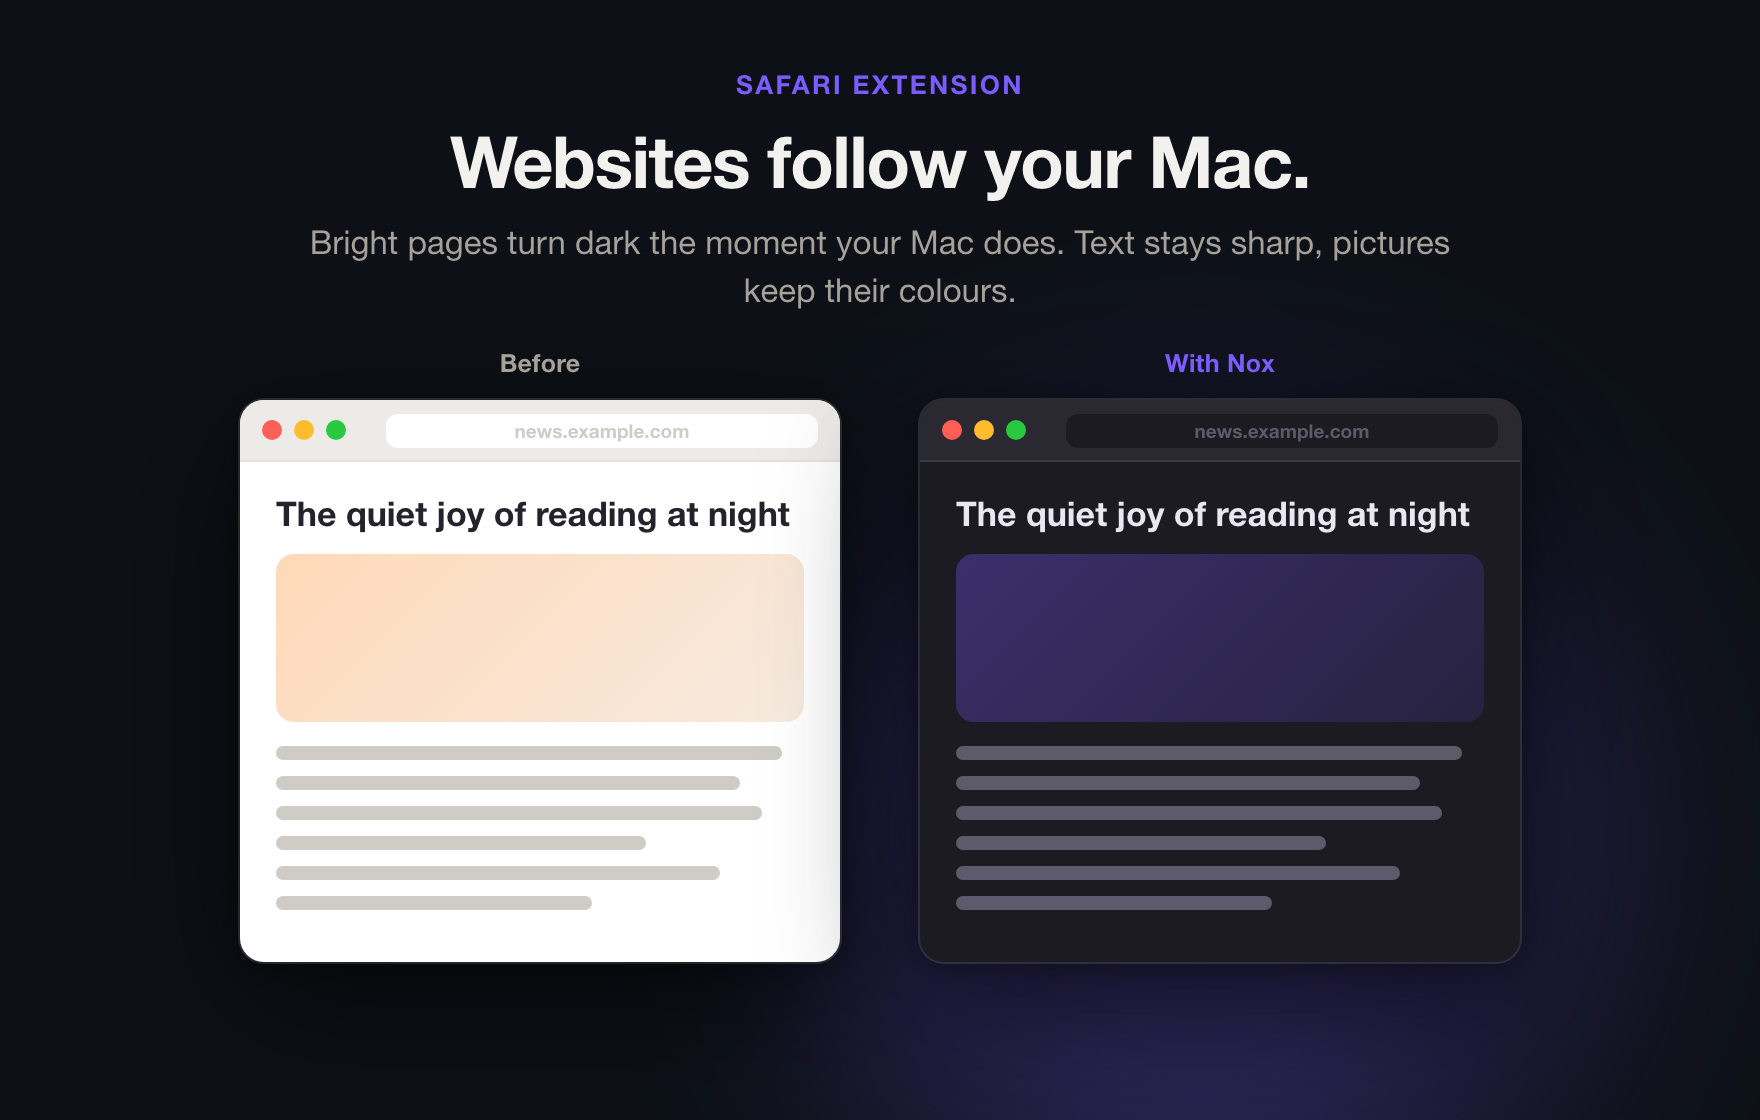
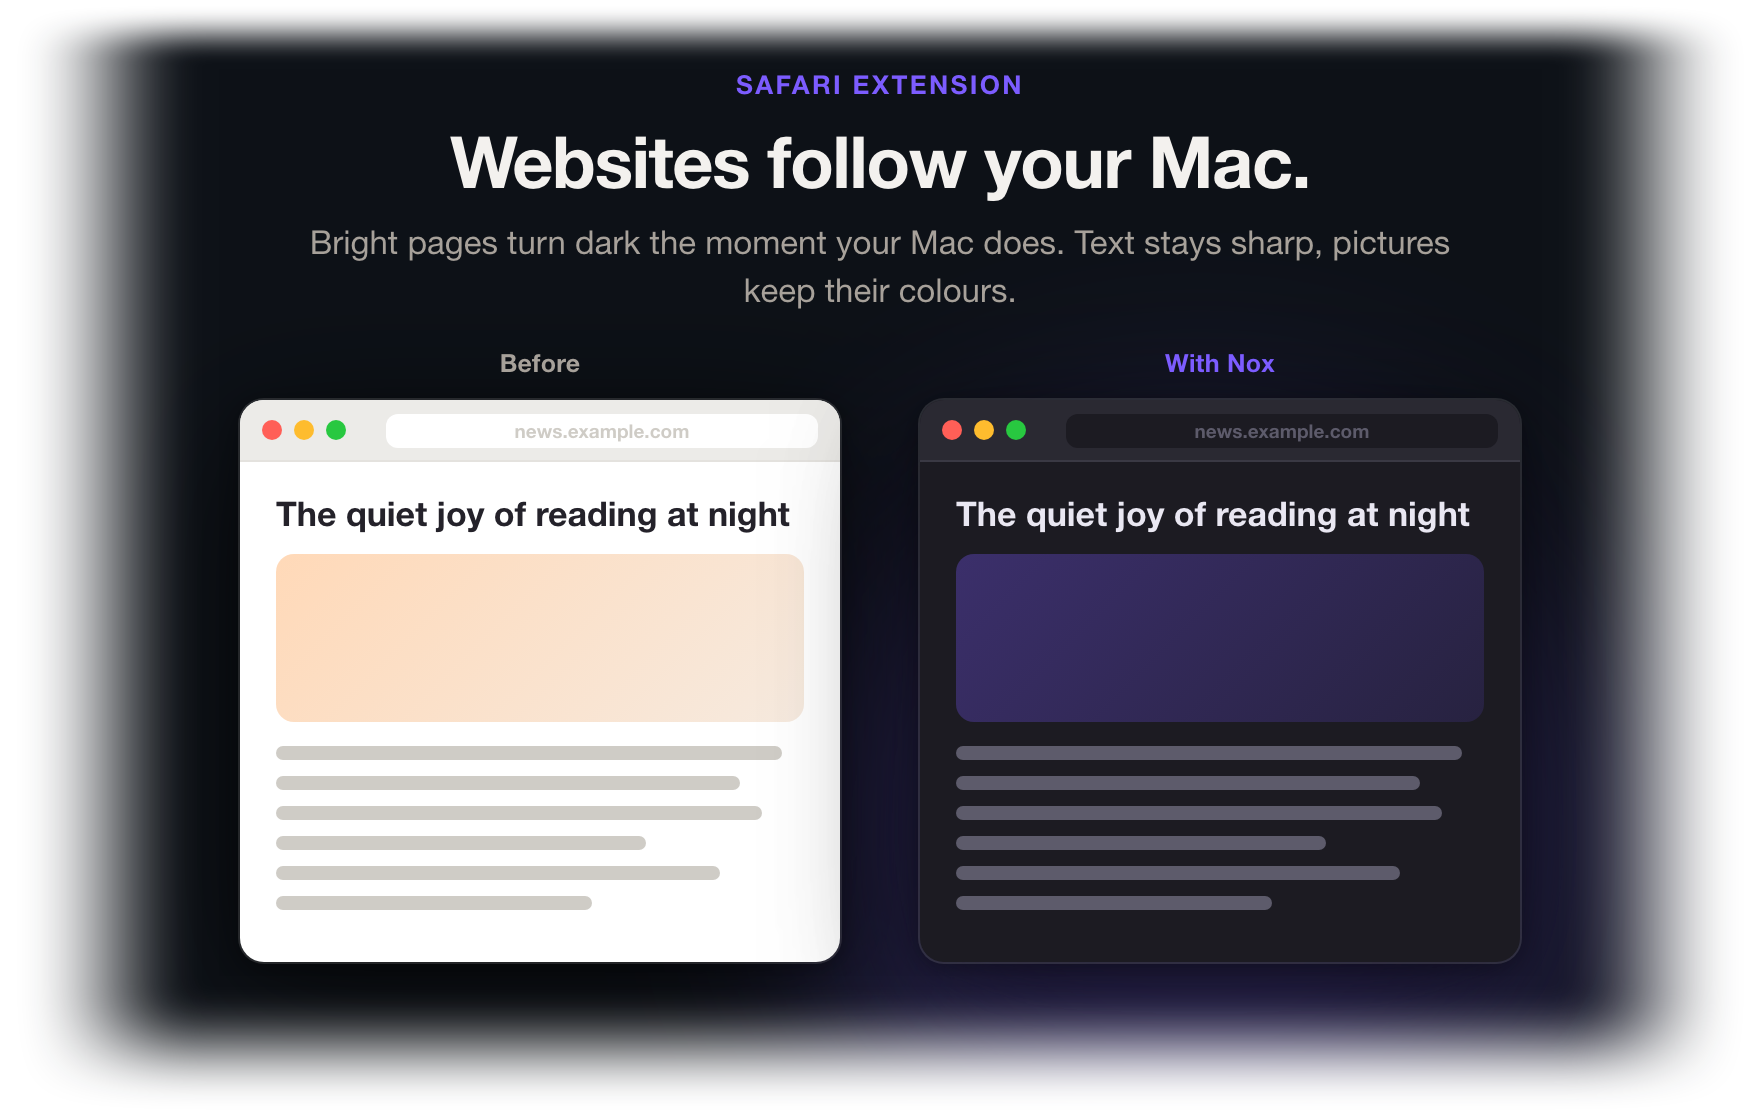
fix: feather showcase picture edges so they fade into the page

diff --git a/docs/index.html b/docs/index.html
@@ -11,7 +11,7 @@
 <meta property="og:title" content="Nox">
 <meta property="og:description" content="One click flips your Mac between light and dark. Free for Mac and Windows.">
 <meta property="og:type" content="website">
-<meta property="og:image" content="showcase/nox-1-light.png">
+<meta property="og:image" content="showcase/nox-og.png">
 <link rel="icon" type="image/png" href="img/icon.png">
 <link rel="apple-touch-icon" href="img/icon.png">
 <style>
@@ -191,6 +191,8 @@
     *, *::before, *::after { animation: none !important; transition: none !important; scroll-behavior: auto !important; }
     .js .reveal { opacity: 1; transform: none; }
   }
+  /* showcase pictures fade softly into the page (edges are feathered in the image itself) */
+  img[src*="showcase/"] { border-radius: 0 !important; box-shadow: none !important; }
 </style>
 </head>
 <body>
